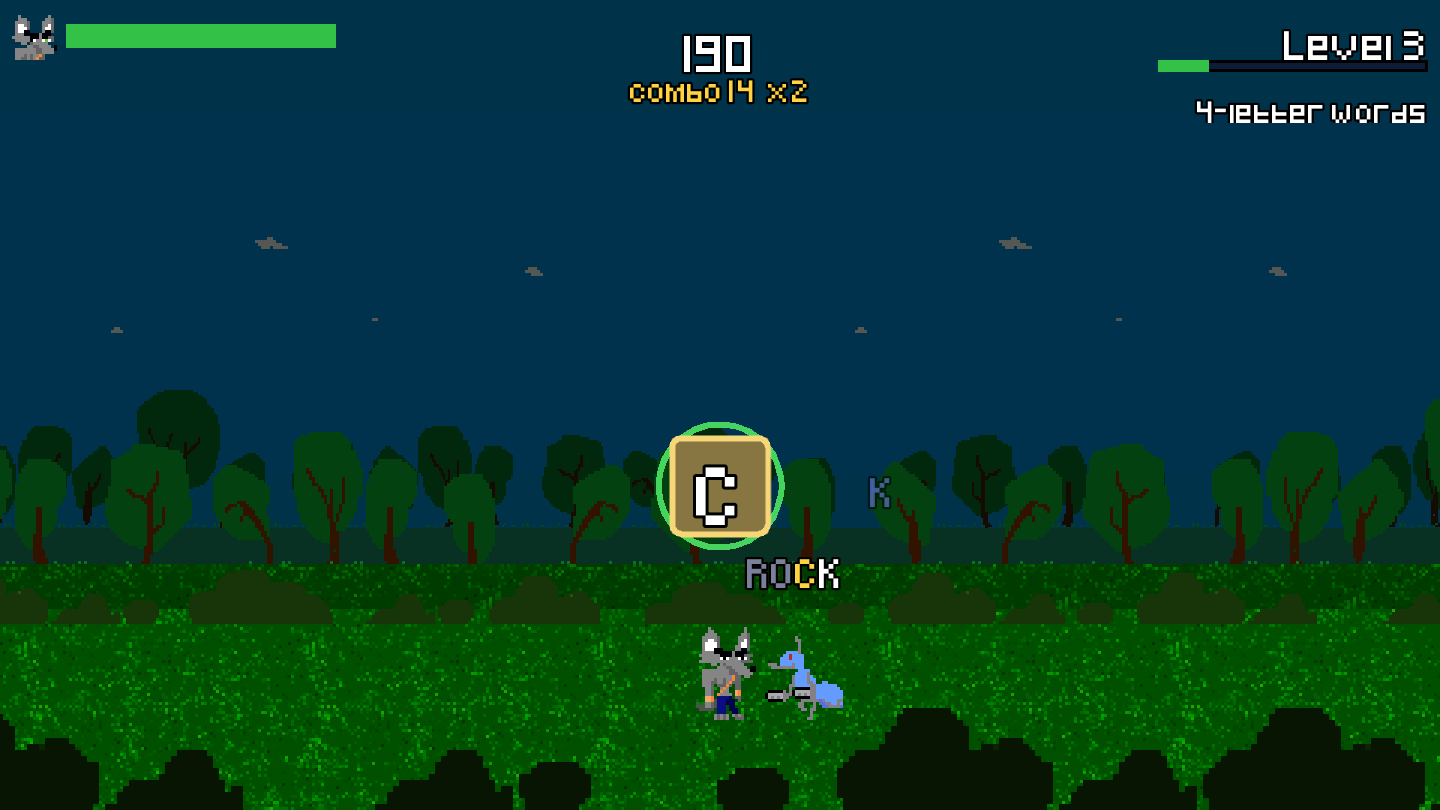
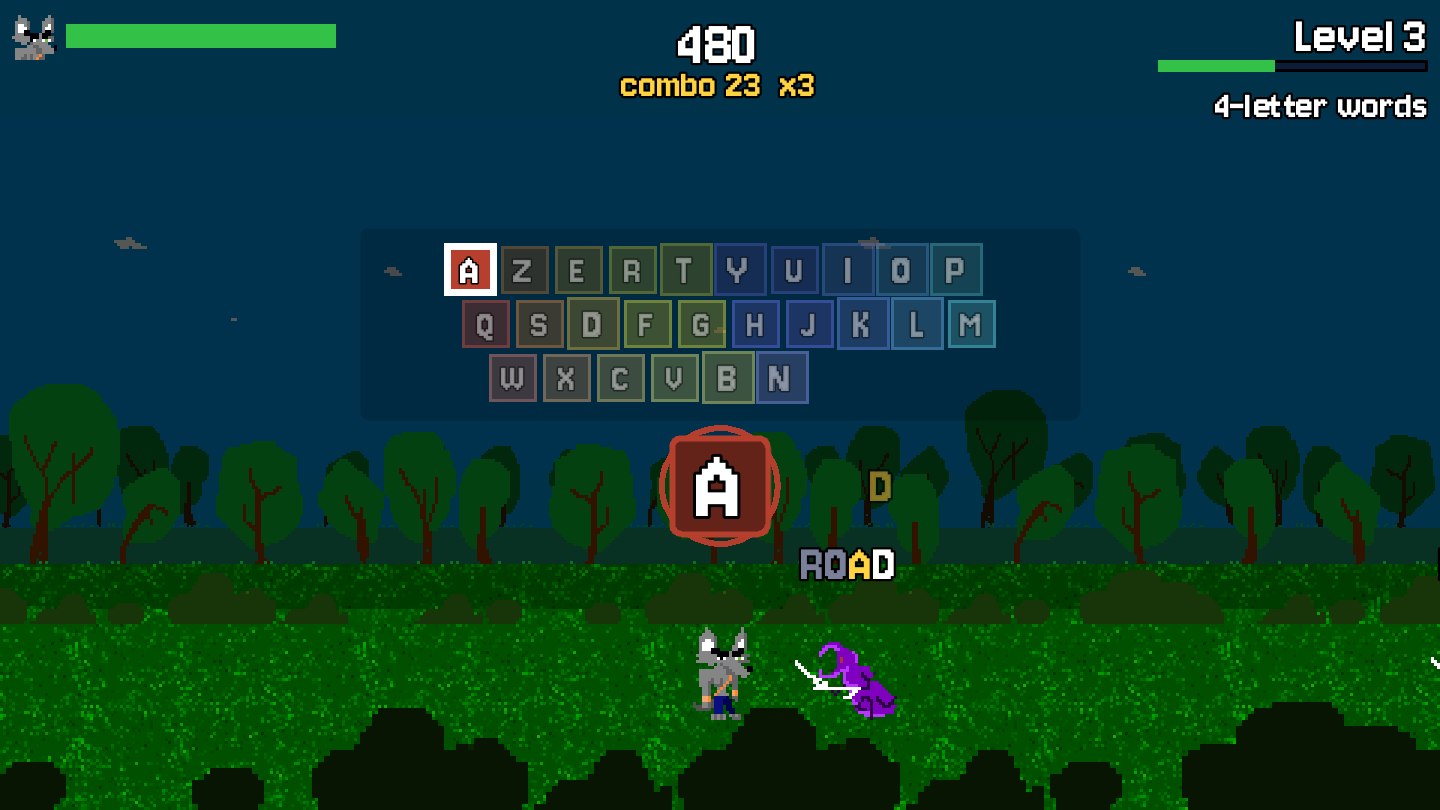
improvment and font update

diff --git a/README.md b/README.md
@@ -62,6 +62,7 @@ Once you know the keys, put them together. Each enemy carries a **word written a
 - 🏆 **Best scores saved**: a record for each level, plus your best games, for each game mode
 - ⚔ **Fair damage**: ants hit for 10, spiders for 12 and beetles for 14, whatever the level
 - 🏃 **Runner style**: the camera follows the player through an endless parallax forest
+- 🔤 **Easy-to-read pixel font**: letters and digits that look alike stay distinct (5 and S, 2 and Z, B and 8, 0 and O), and every French accent is shown (é, è, à, ç, ê…)
 - 🌍 Available in **English** and **French**
 
 ## 📸 Screenshots
@@ -134,7 +135,7 @@ Texts live in `src/Locales/translations.csv` (one column per language). To add a
 - `src/Autoload`: global state (game modes and saved progress, player, Training lessons and finger colors, Arcade word lists, events, transition, sound and music)
 - `src/Actors`: player and enemies (ant, spider, beetle)
 - `src/Levels`: main level and parallax background
-- `src/UI`: HUD, key lane, center key, keyboards, level results, tutorial, screens (boot, menu with the two game modes, level choice and settings, tutorial, game over)
+- `src/UI`: theme and font, HUD, key lane, center key, keyboards, level results, tutorial, screens (boot, menu with the two game modes, level choice and settings, tutorial, game over)
 - `src/Audio`: sound effects and music (generated by `tools/generate_sounds.py`)
 - `src/Locales`: translations
 - `tools`: Python scripts generating the icon, the itch.io cover, the tutorial hands and the sounds, and the capture script for the GIFs and screenshots
@@ -142,7 +143,10 @@ Texts live in `src/Locales/translations.csv` (one column per language). To add a
 - `export/Linux`: Flathub and Snap packaging files, store screenshots
 - `export/itch`: itch.io cover image
 
-Sprites come from Beat And Match To Pass. Font: [Jersey 10](https://github.com/scfried/soft-type-jersey) (SIL Open Font License 1.1, see `src/UI/Controls/Shared/Jersey10-OFL.txt`), rescaled to match the previous font's metrics.
+## 🙏 Credits
+
+- **Sprites**: from Beat And Match To Pass
+- **Font**: [Jersey 10](https://github.com/scfried/soft-type-jersey) by The Soft Type Project Authors, under the [SIL Open Font License 1.1](src/UI/Controls/Shared/Jersey10-OFL.txt). The file `src/UI/Controls/Shared/Jersey10.ttf` is a modified version: its glyphs are scaled up 2.3 times (only the `unitsPerEm` value changes) so that it keeps the sizes of the game's layout
 
 ## 🕹 More from dupot.org
 
